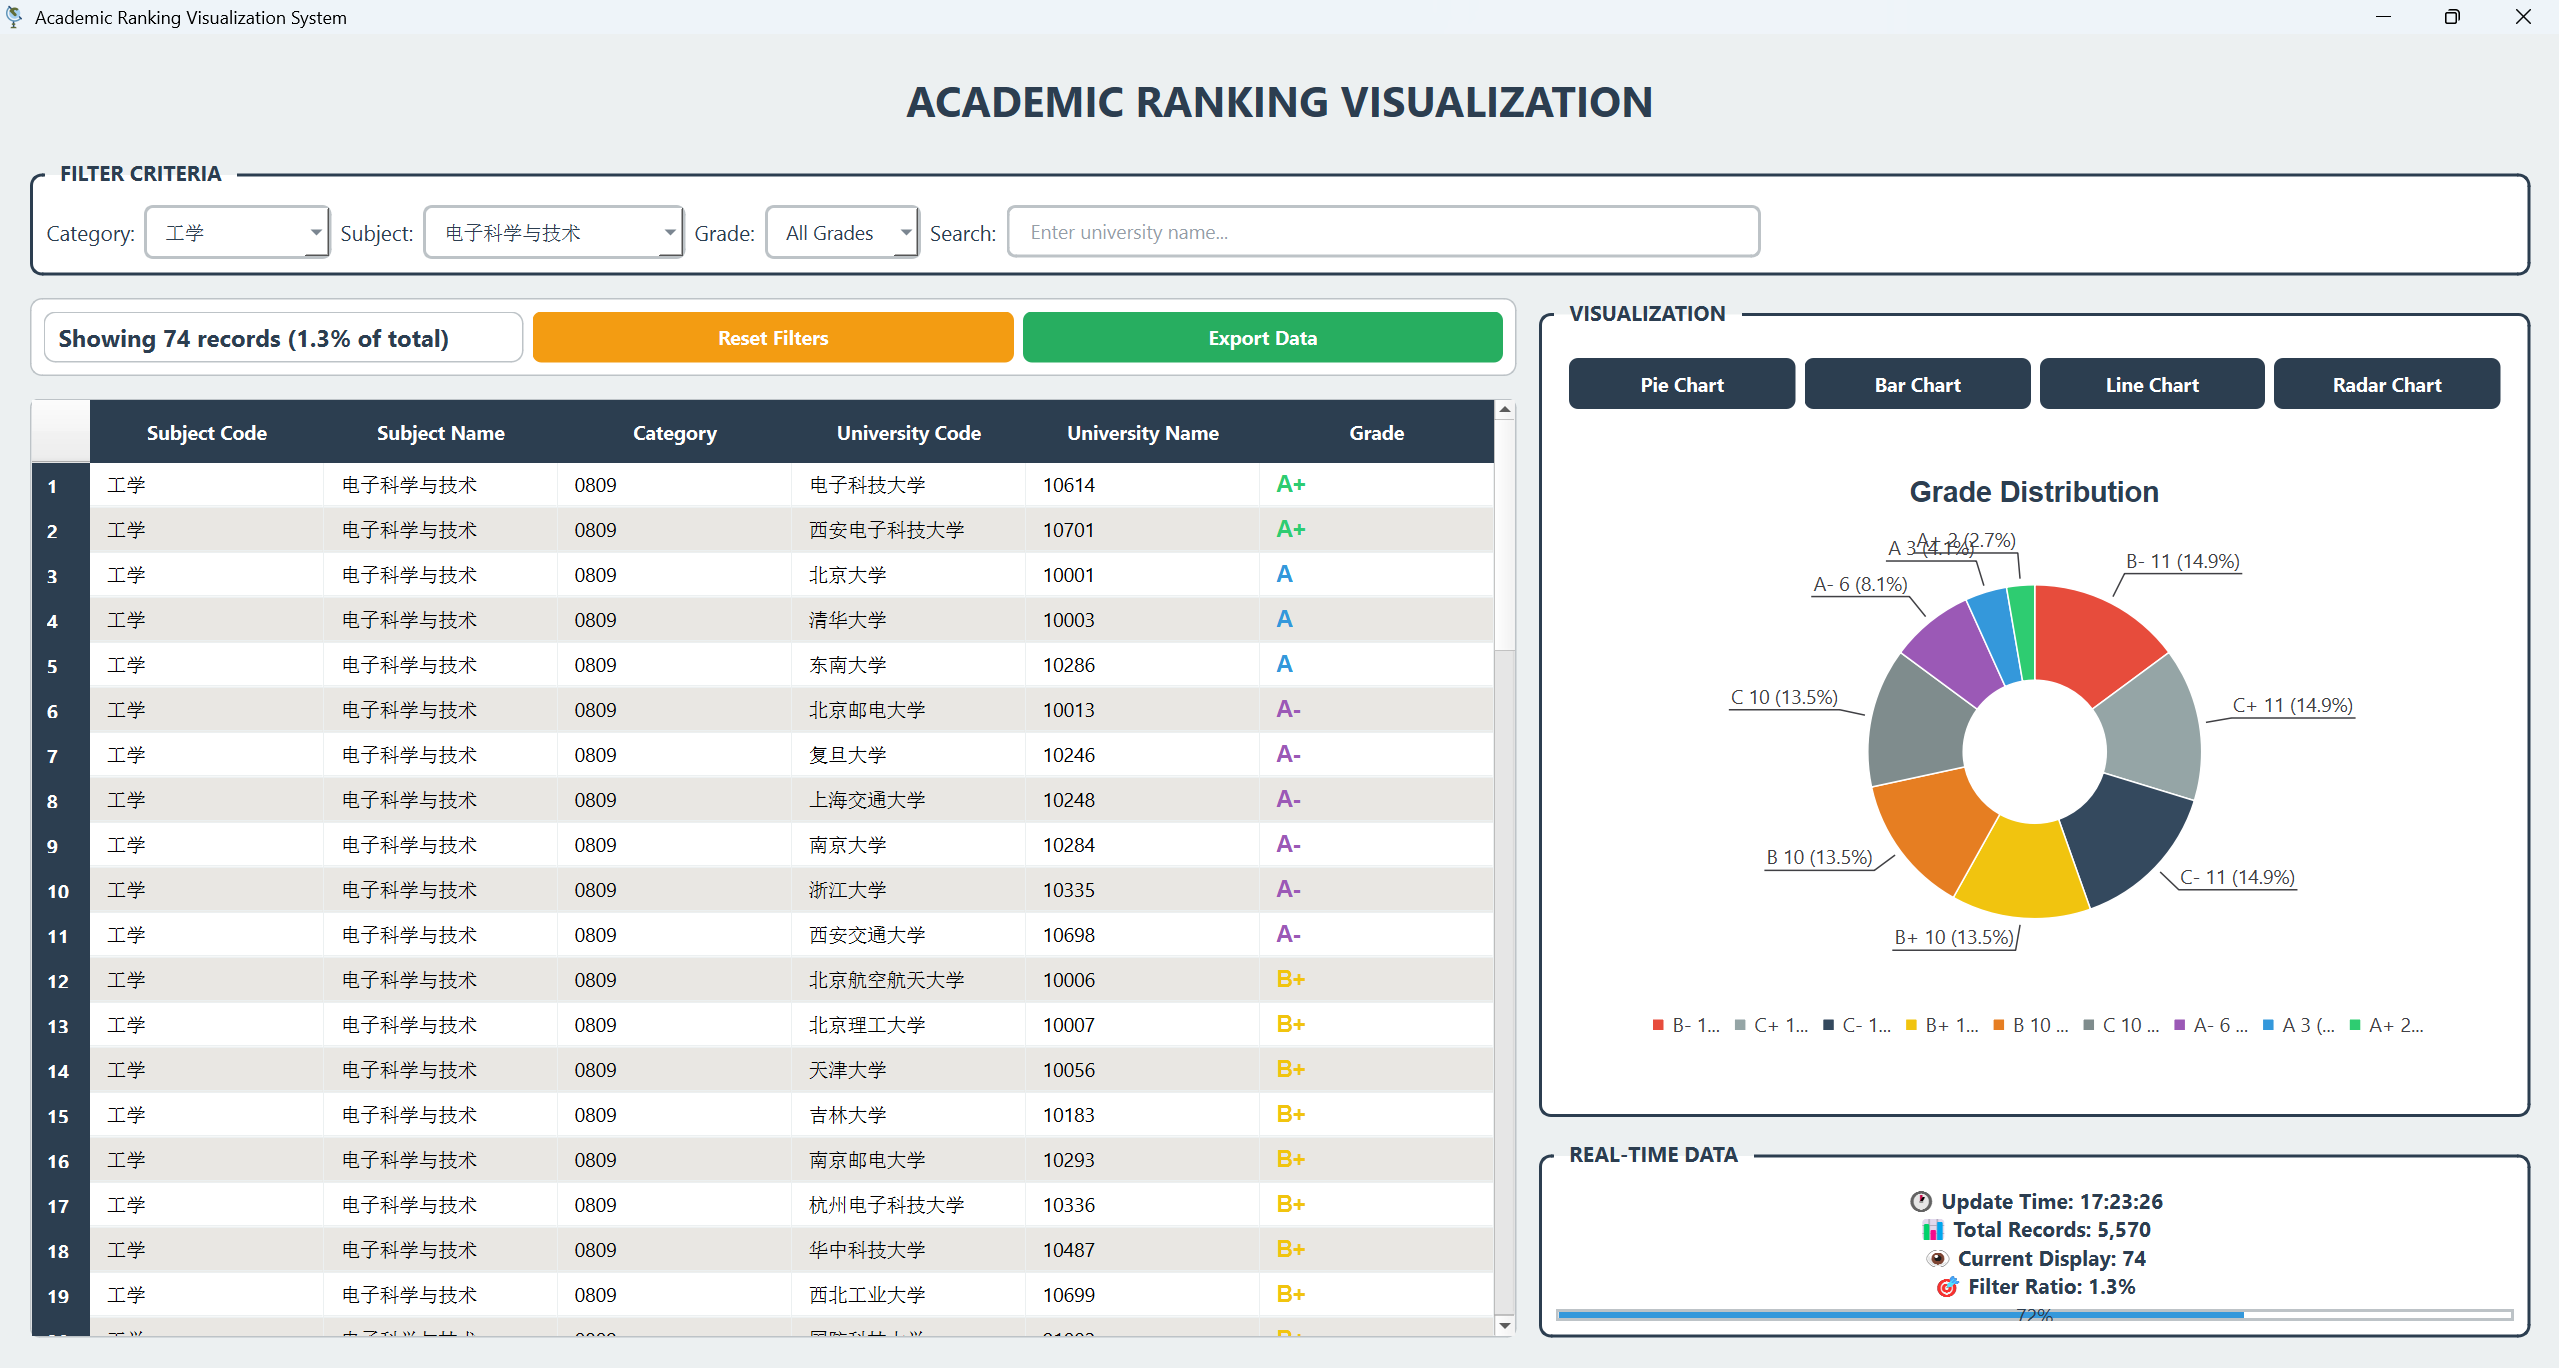
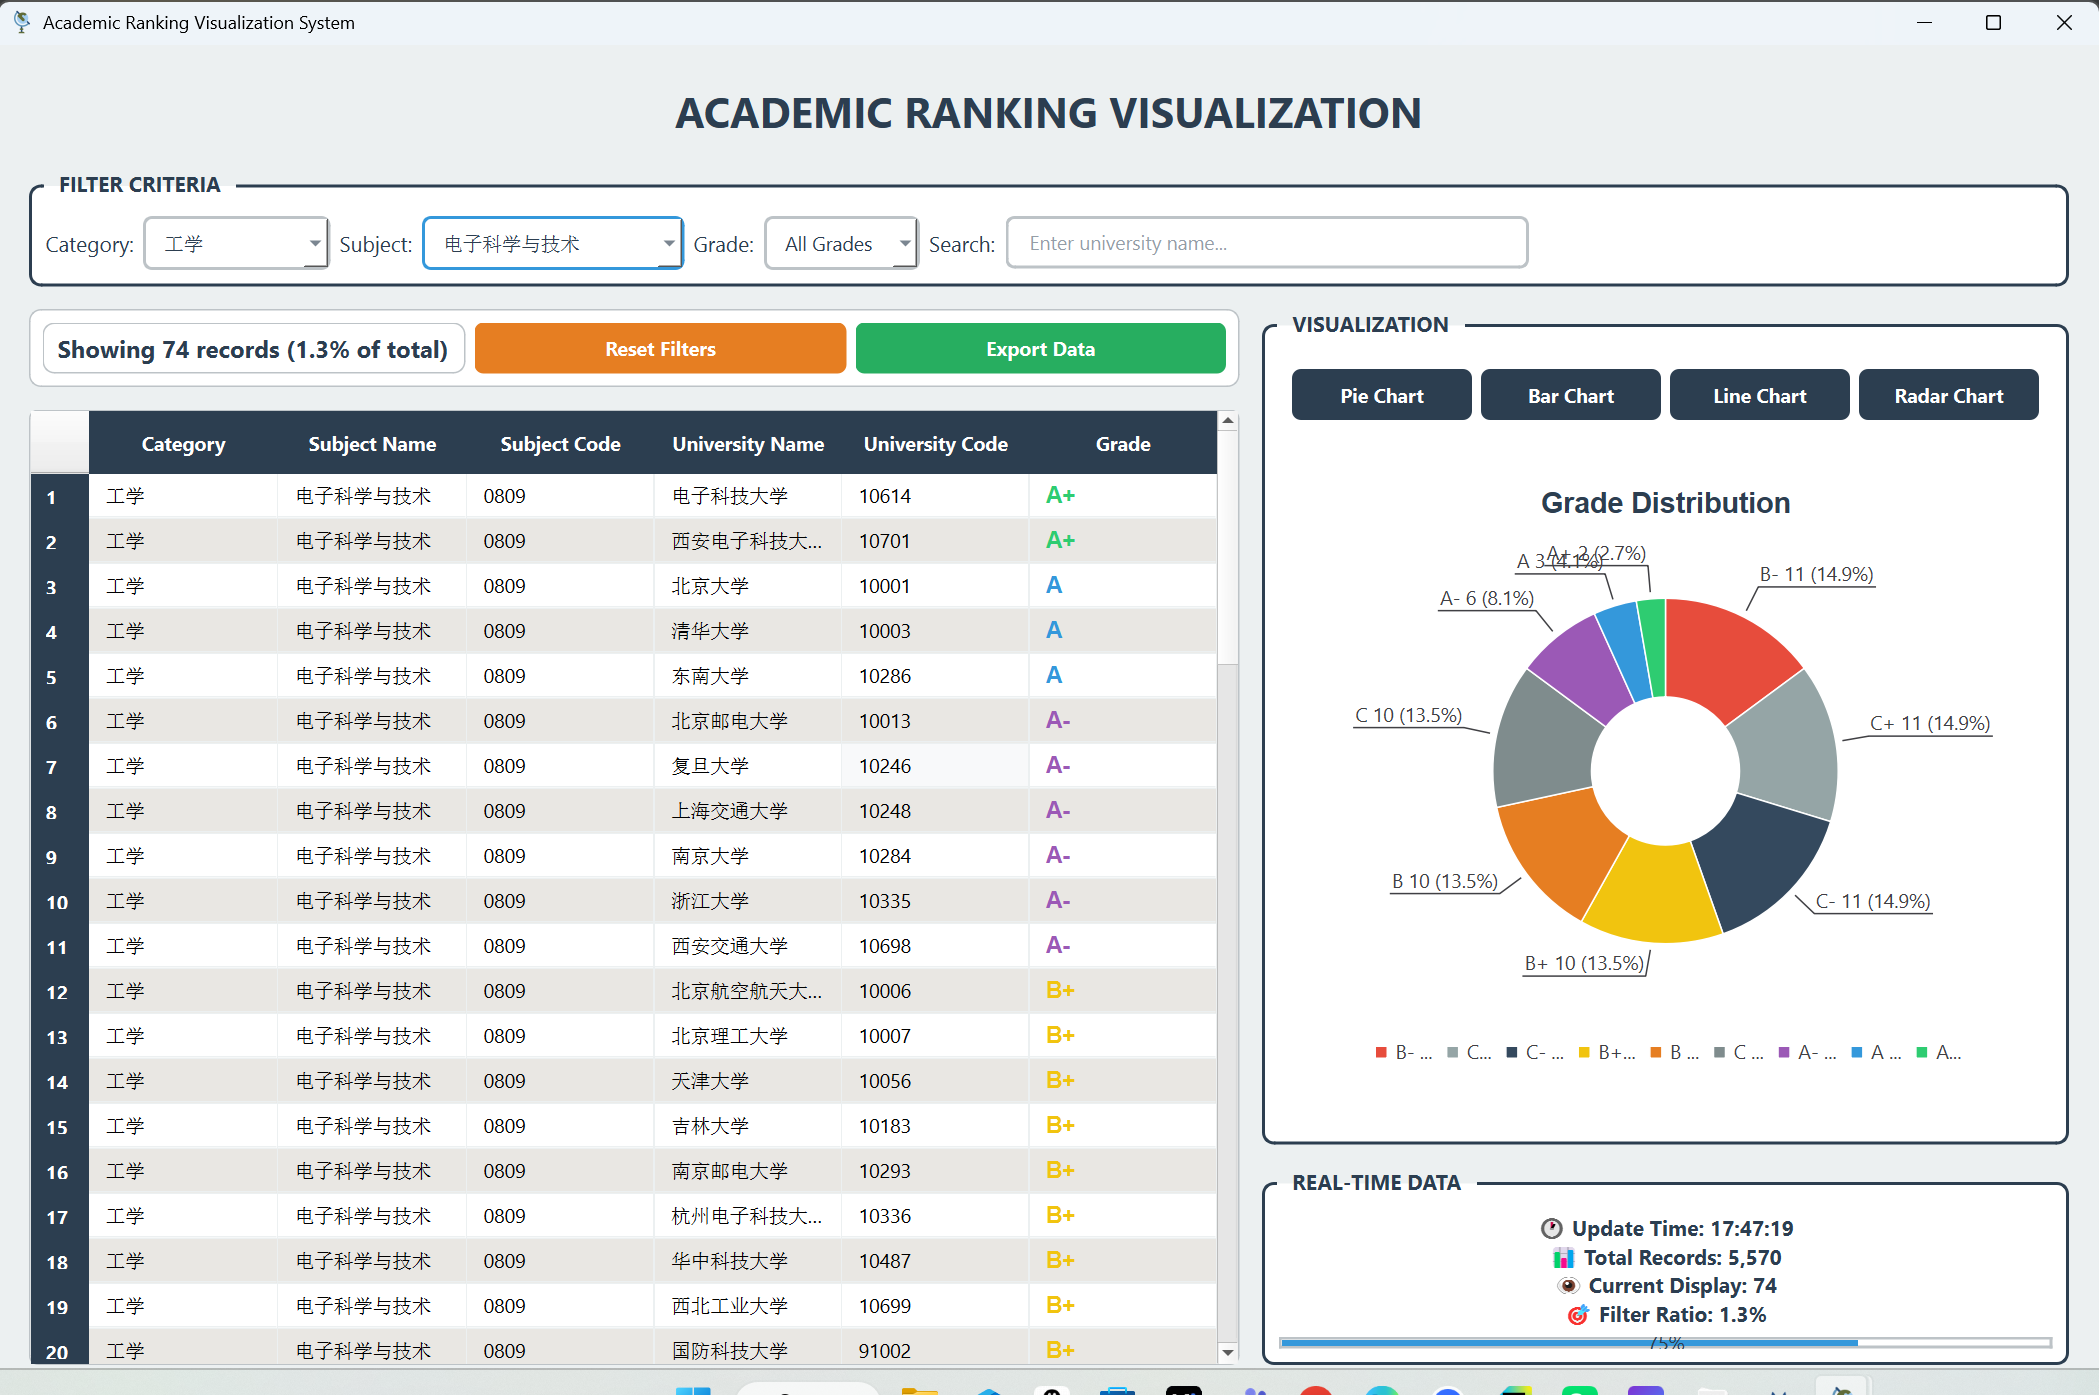
更新readme

diff --git a/project_for_crawler/subject_judgement_crawler_and_vi/subject_ranking_app.py b/project_for_crawler/subject_judgement_crawler_and_vi/subject_ranking_app.py
@@ -291,8 +291,8 @@ class SubjectRankingApp(QMainWindow):
         self.table_widget = QTableWidget()
         self.table_widget.setColumnCount(6)
         self.table_widget.setHorizontalHeaderLabels([
-            "Subject Code", "Subject Name", "Category",
-            "University Code", "University Name", "Grade"
+            "Category", "Subject Name", "Subject Code",
+            "University Name", "University Code", "Grade"
         ])
         self.table_widget.horizontalHeader().setSectionResizeMode(QHeaderView.Stretch)
         self.table_widget.setAlternatingRowColors(True)
